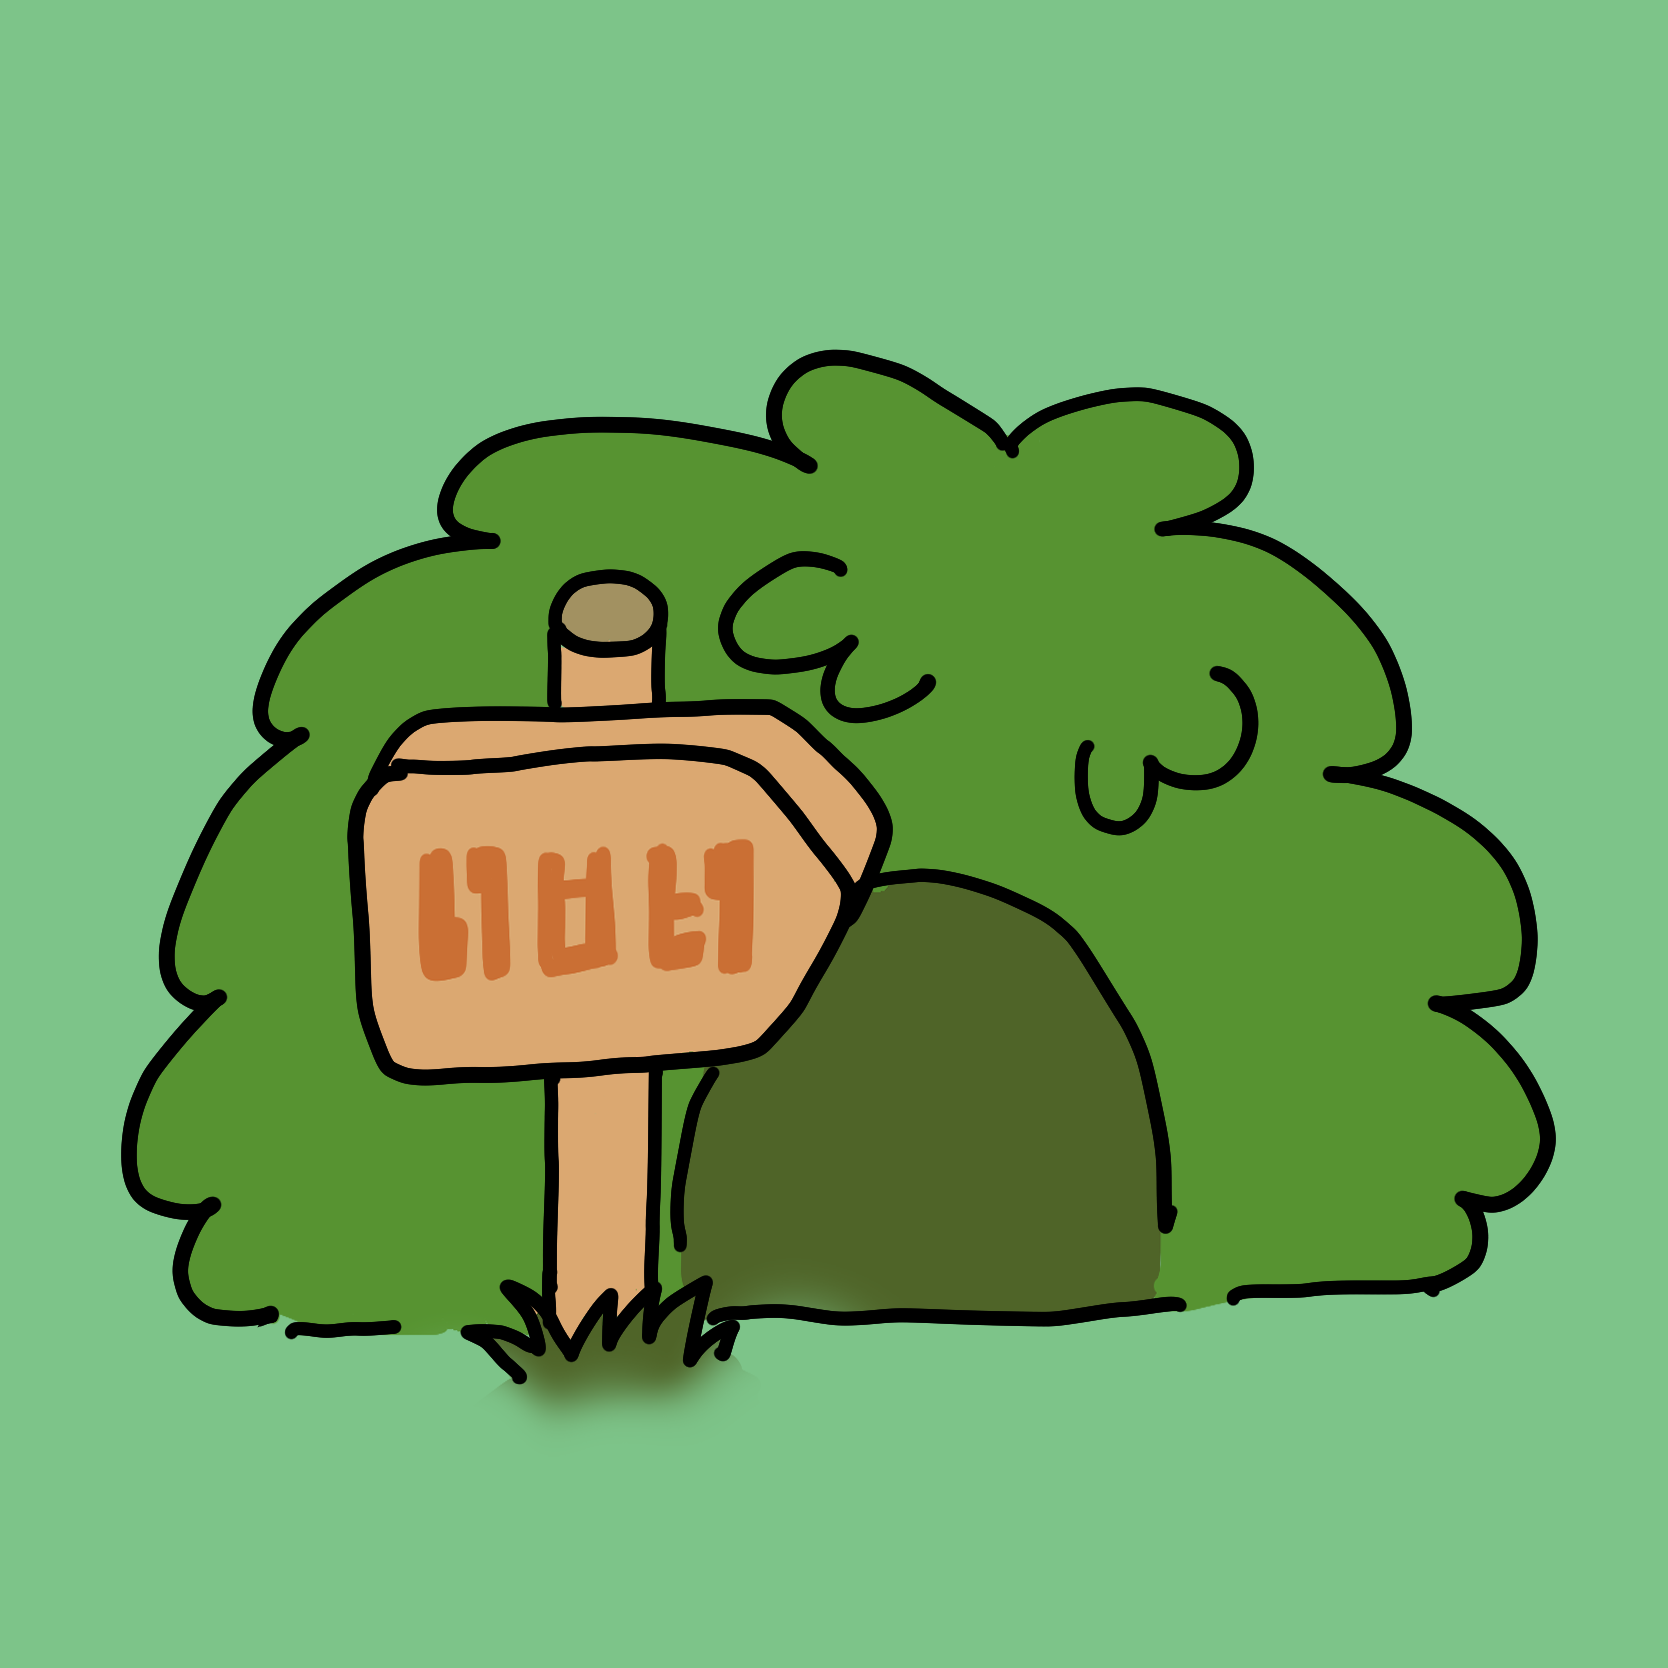
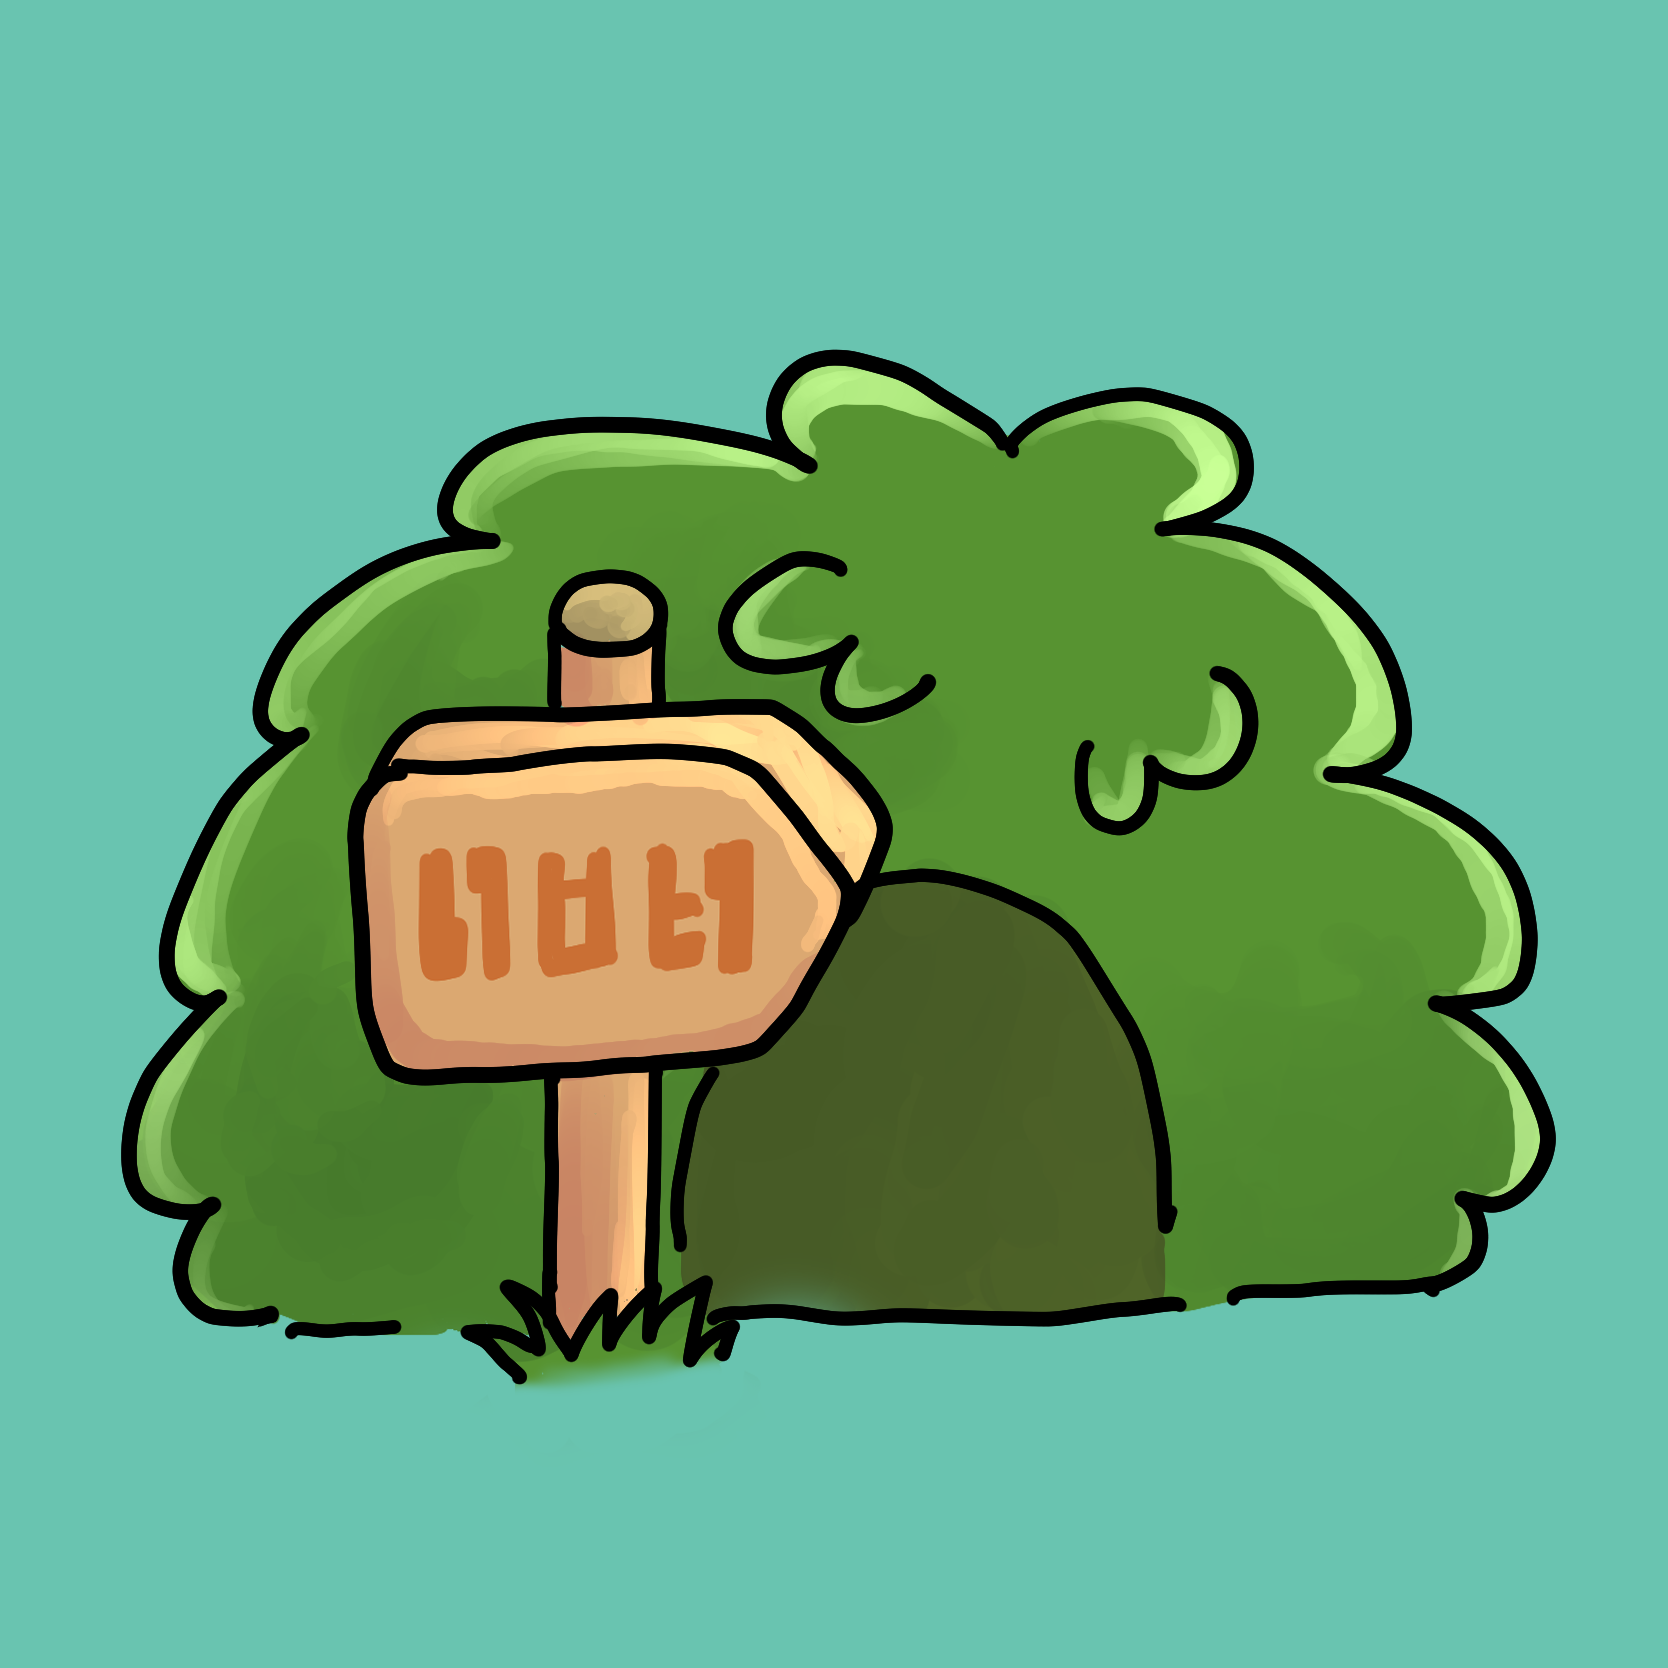
Add files via upload
バナー画像追加、アイコン色調正

diff --git a/index.html b/index.html
@@ -124,6 +124,9 @@
   }
 
   *{box-sizing:border-box;}
+  /* html にも --bg を敷いておく。PC の大きい画面だと、本文の高さが画面の高さより
+     短くて、body の下に隙間ができることがあるので、その隙間も夜は暗く見えるように。 */
+  html{ background:var(--bg); min-height:100%; }
   body{
     background:var(--bg);
     color:var(--text);
@@ -131,6 +134,8 @@
     padding:0 18px;
     padding-block:0;
     line-height:1.6;
+    min-height:100vh;
+    min-height:100dvh;
   }
   .display{ font-family:"M PLUS Rounded 1c","Zen Maru Gothic",sans-serif; }
 
@@ -327,47 +332,49 @@
     max-width:52ch;
   }
 
-  /* ---------- Campfire illustration ---------- */
-  .scene{
-    margin-top:16px;
-    height:86px;
-    border-radius:var(--radius-lg);
-    background:linear-gradient(180deg, var(--primary-soft) 0%, var(--surface-alt) 100%);
-    border:1px solid var(--border);
+  /* ---------- Hero banner(見出しをイラストの上に乗せる) ----------
+     イラスト(昼は banner-bright.png、夜は banner-dark.png。下の
+     <picture><source media="(prefers-color-scheme: dark)"> で切り替え。画面サイズではなく
+     OS/ブラウザのダークモード設定で切り替わる)を見出し(h1)の背景として使う。
+     昼は白っぽい幕、夜は暗い幕を「左(文字のほう)は濃く、右(ポケモンのほう)は透明」に
+     グラデーションさせて重ね、文字を読みやすくしつつポケモンがよく見えるようにしている。
+     本文(p)はイラストの外に、今までどおりの見た目のまま続く。
+     aspect-ratio:3/1 は、画像(1500×500px = 3:1)そのままの比率で表示するための指定。
+     min-height は、見出しが3行になる画面(家具からポケモン診断)でも文字が窮屈にならない
+     ための最低の高さ。画面の横幅が十分あるときは aspect-ratio が優先されて画像は一切
+     切れず、横幅が極端に狭いときだけ min-height が効いて、その場合は画像の左右が
+     少し切れる(上下＝キャラクターの頭は切れない)。 */
+  .hero-banner{
     position:relative;
+    padding:18px;
+    border-radius:var(--radius-lg);
+    border:1px solid var(--border);
     overflow:hidden;
+    aspect-ratio:3/1;
+    min-height:150px;
   }
-  .scene .hill{
-    position:absolute; left:-10%; bottom:-30px; width:60%; height:70px;
-    background:var(--primary); opacity:.35; border-radius:50%;
+  .hero-banner img{
+    position:absolute; inset:0;
+    width:100%; height:100%;
+    object-fit:cover;
+    display:block;
   }
-  .scene .hill2{
-    position:absolute; right:-15%; bottom:-40px; width:70%; height:80px;
-    background:var(--primary); opacity:.22; border-radius:50%;
+  .hero-banner .scrim{
+    position:absolute; inset:0;
+    background:linear-gradient(to right, rgba(255,255,255,.62) 0%, rgba(255,255,255,.62) 38%, rgba(255,255,255,0) 78%);
   }
-  .scene .tent{
-    position:absolute; left:14%; bottom:10px; width:0;height:0;
-    border-left:26px solid transparent; border-right:26px solid transparent;
-    border-bottom:40px solid var(--accent-strong);
-    filter:drop-shadow(0 2px 0 rgba(0,0,0,0.05));
+  @media (prefers-color-scheme: dark){
+    :root:not([data-theme="light"]) .hero-banner .scrim{
+      background:linear-gradient(to right, rgba(13,17,32,.60) 0%, rgba(13,17,32,.60) 38%, rgba(13,17,32,0) 78%);
+    }
   }
-  .scene .tent::after{
-    content:"";position:absolute; left:-3px; bottom:0; width:6px;height:40px;
-    background:var(--accent-soft);
+  :root[data-theme="dark"] .hero-banner .scrim{
+    background:linear-gradient(to right, rgba(13,17,32,.60) 0%, rgba(13,17,32,.60) 38%, rgba(13,17,32,0) 78%);
   }
-  .scene .fire{
-    position:absolute; left:44%; bottom:10px; width:14px; height:20px;
-    background:var(--gold);
-    border-radius:50% 50% 50% 50% / 60% 60% 40% 40%;
-    box-shadow:0 0 16px 4px color-mix(in srgb, var(--gold) 55%, transparent);
-    animation:flicker 2.4s ease-in-out infinite;
+  .hero-banner h1{
+    position:relative; z-index:1;
+    margin:0;
   }
-  @keyframes flicker{ 0%,100%{ transform:scaleY(1) translateY(0);} 50%{ transform:scaleY(1.12) translateY(-2px);} }
-  .scene .pika{
-    position:absolute; right:18%; bottom:12px; width:22px;height:22px;
-    background:var(--gold); border-radius:50% 50% 45% 45%;
-  }
-  @media (prefers-reduced-motion:reduce){ .scene .fire{ animation:none; } }
 
   /* ---------- Section ---------- */
   section{ margin-top:26px; }
@@ -878,14 +885,15 @@
 <main>
 <div id="facilityView">
   <div class="hero">
-    <h1><span data-i18n="ポケモンの「好物」と「苦手」から、">ポケモンの「好物」と「苦手」から、</span><br><span data-i18n="おすすめ施設を診断します">おすすめ施設を診断します</span></h1>
-    <p data-i18n="1〜4匹のポケモンを選ぶと、それぞれの好物属性・苦手属性の家具と照らし合わせて、相性のよい施設をおすすめします。">1〜4匹のポケモンを選ぶと、それぞれの好物属性・苦手属性の家具と照らし合わせて、相性のよい施設をおすすめします。</p>
-    <div class="scene" aria-hidden="true">
-      <div class="hill"></div><div class="hill2"></div>
-      <div class="tent"></div>
-      <div class="fire"></div>
-      <div class="pika"></div>
+    <div class="hero-banner">
+      <picture>
+        <source srcset="画像保管庫/banner-dark.png" media="(prefers-color-scheme: dark)">
+        <img src="画像保管庫/banner-bright.png" alt="">
+      </picture>
+      <div class="scrim" aria-hidden="true"></div>
+      <h1><span data-i18n="ポケモンの「好物」と「苦手」から、">ポケモンの「好物」と「苦手」から、</span><br><span data-i18n="おすすめ施設を診断します">おすすめ施設を診断します</span></h1>
     </div>
+    <p data-i18n="1〜4匹のポケモンを選ぶと、それぞれの好物属性・苦手属性の家具と照らし合わせて、相性のよい施設をおすすめします。">1〜4匹のポケモンを選ぶと、それぞれの好物属性・苦手属性の家具と照らし合わせて、相性のよい施設をおすすめします。</p>
   </div>
 
   <section>
@@ -936,14 +944,15 @@
 
 <div id="furnitureView" hidden>
   <div class="hero">
-    <h1><span data-i18n="置いた家具から、">置いた家具から、</span><br><span data-i18n="住みたがるポケモンを">住みたがるポケモンを</span><br><span data-i18n="診断します">診断します</span></h1>
-    <p data-i18n="家具を選ぶと、その家具が好きなポケモンを表示します。">家具を選ぶと、その家具が好きなポケモンを表示します。</p>
-    <div class="scene" aria-hidden="true">
-      <div class="hill"></div><div class="hill2"></div>
-      <div class="tent"></div>
-      <div class="fire"></div>
-      <div class="pika"></div>
+    <div class="hero-banner">
+      <picture>
+        <source srcset="画像保管庫/banner-dark.png" media="(prefers-color-scheme: dark)">
+        <img src="画像保管庫/banner-bright.png" alt="">
+      </picture>
+      <div class="scrim" aria-hidden="true"></div>
+      <h1><span data-i18n="置いた家具から、">置いた家具から、</span><br><span data-i18n="住みたがるポケモンを">住みたがるポケモンを</span><br><span data-i18n="診断します">診断します</span></h1>
     </div>
+    <p data-i18n="家具を選ぶと、その家具が好きなポケモンを表示します。">家具を選ぶと、その家具が好きなポケモンを表示します。</p>
   </div>
 
   <section>
